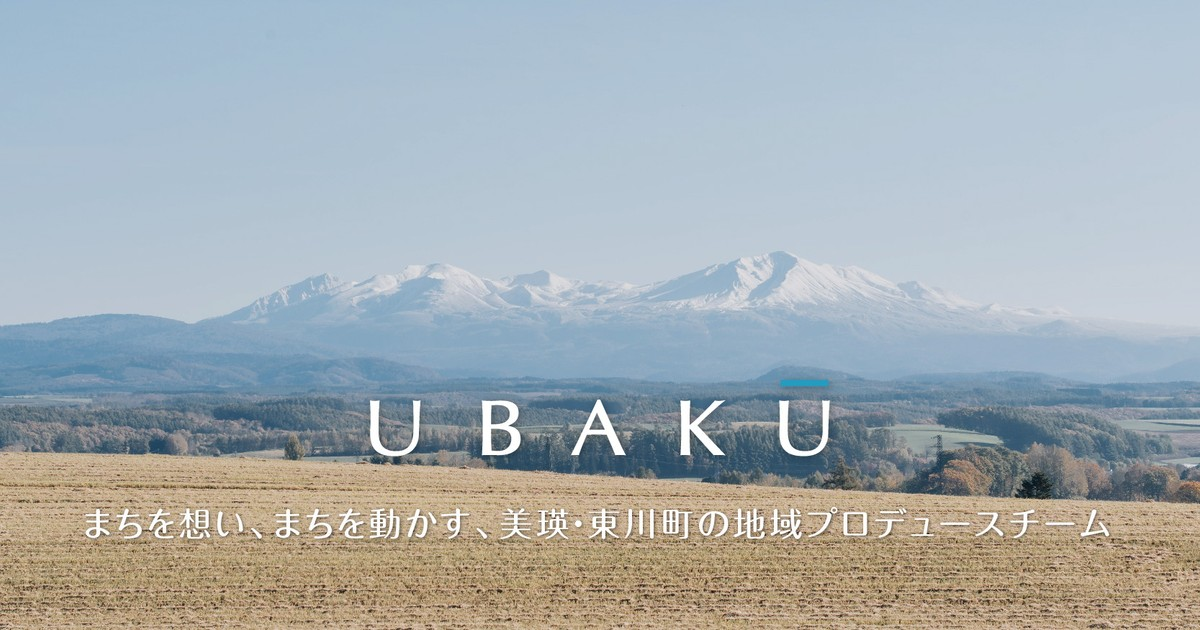
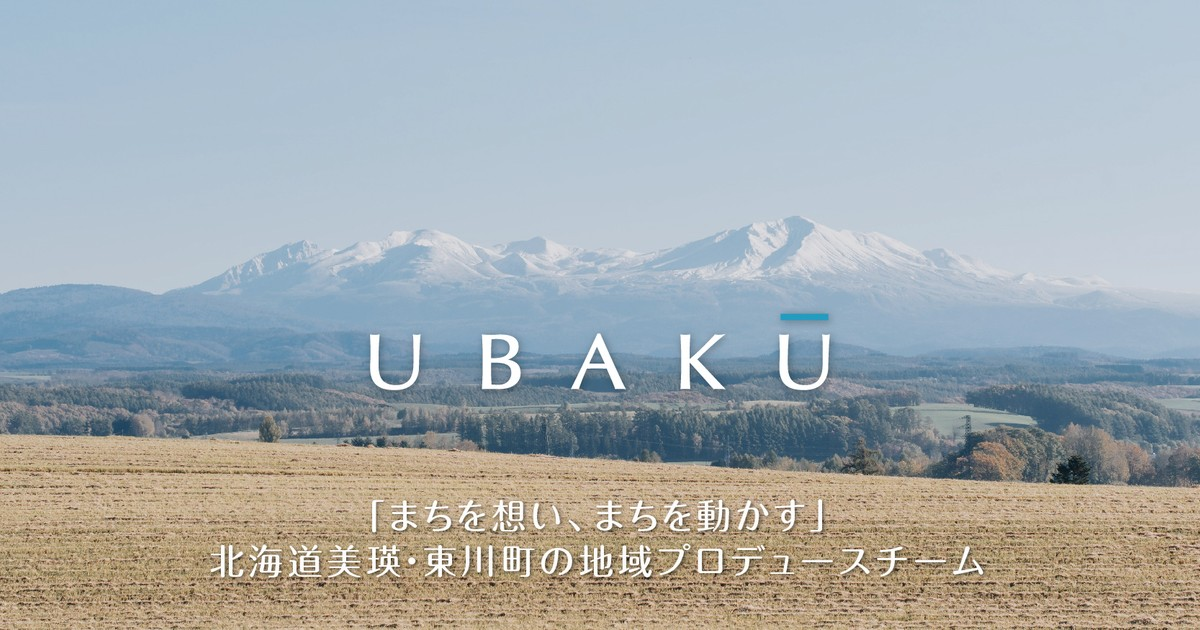
名乗りの美瑛から「町」を外す・OGP画像を新しい名乗りのものに差し替え

diff --git a/index.html b/index.html
@@ -13,14 +13,14 @@
 <script>/* オープニングを出すかどうかを、表示の前に決める（ページを開くたび毎回。?nointro のときと「動きを減らす」設定の人には出さない） */try{if(location.search.indexOf("nointro")<0&&!matchMedia("(prefers-reduced-motion: reduce)").matches){document.documentElement.classList.add("is-opening")}}catch(e){}</script>
 <meta name="viewport" content="width=device-width, initial-scale=1">
 <title>UBAKU｜北海道美瑛・東川町の地域プロデュースチーム</title>
-<meta name="description" content="「まちを想い、まちを動かす」北海道美瑛町・東川町の地域プロデュースチーム、UBAKU。一棟貸しの宿「UBAKU Villa 宇莫別荘」の運営、改修のデザイン監修とブランディング、宿と不動産のコンサルティング、地域メディア、移住・二拠点のご相談まで。">
+<meta name="description" content="「まちを想い、まちを動かす」北海道美瑛・東川町の地域プロデュースチーム、UBAKU。一棟貸しの宿「UBAKU Villa 宇莫別荘」の運営、改修のデザイン監修とブランディング、宿と不動産のコンサルティング、地域メディア、移住・二拠点のご相談まで。">
 <link rel="canonical" href="https://ubaku.jp/">
 
 <!-- SNSでシェアされたときの表示（ogp.jpg は 1200×630 で用意する） -->
 <meta property="og:type" content="website">
 <meta property="og:site_name" content="UBAKU">
 <meta property="og:title" content="UBAKU｜北海道美瑛・東川町の地域プロデュースチーム">
-<meta property="og:description" content="「まちを想い、まちを動かす」北海道美瑛町・東川町の地域プロデュースチーム、UBAKU。一棟貸しの宿「UBAKU Villa 宇莫別荘」の運営、改修のデザイン監修とブランディング、宿と不動産のコンサルティング、地域メディア、移住・二拠点のご相談まで。">
+<meta property="og:description" content="「まちを想い、まちを動かす」北海道美瑛・東川町の地域プロデュースチーム、UBAKU。一棟貸しの宿「UBAKU Villa 宇莫別荘」の運営、改修のデザイン監修とブランディング、宿と不動産のコンサルティング、地域メディア、移住・二拠点のご相談まで。">
 <meta property="og:url" content="https://ubaku.jp/">
 <meta property="og:image" content="https://ubaku.jp/ogp.jpg">
 <meta property="og:image:width" content="1200">
@@ -39,8 +39,8 @@
 <link rel="stylesheet" href="https://fonts.googleapis.com/css2?family=Noto+Sans+JP:wght@300;400;500&family=Noto+Serif+JP:wght@400&family=Cormorant+Garamond:ital,wght@0,500;0,600;1,400;1,500&family=Jost:ital,wght@0,200;0,300;0,400;1,300&family=EB+Garamond:wght@500&family=Murecho:wght@400&display=swap">
 
 <!-- デザイン（色・フォント・余白はすべてこのファイルで管理） -->
-<link rel="stylesheet" href="assets/css/style.css?v=202610272104">
-<link rel="stylesheet" href="assets/css/letter.css?v=202610272104">   <!-- UBAKU Letter（メルマガ）の購読：右下の札・窓・Journal のあとの購読欄 -->
+<link rel="stylesheet" href="assets/css/style.css?v=202610272126">
+<link rel="stylesheet" href="assets/css/letter.css?v=202610272126">   <!-- UBAKU Letter（メルマガ）の購読：右下の札・窓・Journal のあとの購読欄 -->
 
 <!-- Googleに会社情報を伝えるデータ（構造化データ）
      ロゴ画像と note のURLが決まったら "logo" と sameAs に追加する -->
@@ -51,7 +51,7 @@
   "name": "UBAKU",
   "url": "https://ubaku.jp/",
   "logo": "https://ubaku.jp/assets/img/icon-512.png",
-  "description": "「まちを想い、まちを動かす」北海道美瑛町・東川町の地域プロデュースチーム。美瑛と東川を拠点に、大雪山をとりまくまちで活動。",
+  "description": "「まちを想い、まちを動かす」北海道美瑛・東川町の地域プロデュースチーム。美瑛と東川を拠点に、大雪山をとりまくまちで活動。",
   "address": {
     "@type": "PostalAddress",
     "addressCountry": "JP",
@@ -132,7 +132,7 @@
     <div class="hero-copy intro" style="--d:.5s">
       <!-- h1はこの1つだけ（文言は固定） -->
       <h1>大雪山のふもとで、<br class="sp-br"><em class="hl">知る・泊まる・過ごす・住む。</em></h1>
-      <p><span class="phrase">「まちを想い、まちを動かす」</span><span class="phrase"><span class="phrase">北海道美瑛町・東川町の</span><span class="phrase">地域プロデュースチーム</span></span></p>
+      <p><span class="phrase">「まちを想い、まちを動かす」</span><span class="phrase"><span class="phrase">北海道美瑛・東川町の</span><span class="phrase">地域プロデュースチーム</span></span></p>
     </div>
   </div>
 
@@ -438,7 +438,7 @@
     <footer>
       <div>
         <span class="footer-logo wordmark" role="img" aria-label="UBAKU"></span>
-        <span><span class="phrase">「まちを想い、まちを動かす」</span><span class="phrase"><span class="phrase">北海道美瑛町・東川町の</span><span class="phrase">地域プロデュースチーム</span></span></span><br>
+        <span><span class="phrase">「まちを想い、まちを動かす」</span><span class="phrase"><span class="phrase">北海道美瑛・東川町の</span><span class="phrase">地域プロデュースチーム</span></span></span><br>
         <span>〒071-0212 北海道上川郡美瑛町旭町4丁目10-8-103</span>
       </div>
       <div class="footer-right">
@@ -453,9 +453,9 @@
 </section>
 
 <script src="https://web3forms.com/client/script.js" async defer></script>
-<script src="assets/js/notes.js?v=202610272104"></script>
-<script src="assets/js/main.js?v=202610272104"></script>
-<script src="assets/js/letter.js?v=202610272104"></script>
+<script src="assets/js/notes.js?v=202610272126"></script>
+<script src="assets/js/main.js?v=202610272126"></script>
+<script src="assets/js/letter.js?v=202610272126"></script>
 
 <!-- ページの一番上へ戻るボタン（矢印だけ。スクロールすると右下の UBAKU Letter の札の上に出る。2026-10-25） -->
 <a class="to-top" href="#" aria-label="ページの一番上へ"><svg viewBox="0 0 24 24" aria-hidden="true"><path d="M12 19V5M5.5 11.5 12 5l6.5 6.5"/></svg></a>

diff --git a/consulting/index.html b/consulting/index.html
@@ -36,9 +36,9 @@
 <link rel="stylesheet" href="https://fonts.googleapis.com/css2?family=Noto+Sans+JP:wght@300;400;500&family=Noto+Serif+JP:wght@400&family=Cormorant+Garamond:ital,wght@0,500;0,600;1,400;1,500&family=Jost:wght@200;300;400&family=EB+Garamond:wght@500&family=Murecho:wght@400&display=swap">
 
 <!-- デザイン：トップページと共通の style.css ＋ 下層ページ用の sub.css ＋ UBAKU Letter の札 -->
-<link rel="stylesheet" href="../assets/css/style.css?v=202610272104">
-<link rel="stylesheet" href="../assets/css/sub.css?v=202610272104">
-<link rel="stylesheet" href="../assets/css/letter.css?v=202610272104">
+<link rel="stylesheet" href="../assets/css/style.css?v=202610272126">
+<link rel="stylesheet" href="../assets/css/sub.css?v=202610272126">
+<link rel="stylesheet" href="../assets/css/letter.css?v=202610272126">
 
 <!-- Googleにページの内容を伝えるデータ（このページで受けている仕事） -->
 <script type="application/ld+json">
@@ -83,7 +83,7 @@
 <header class="hero wrap">
   <nav class="nav intro" style="--d:0s" aria-label="メインメニュー">
     <!-- 左上は UBAKŪ のロゴ（Ū の横線はこのページの色）と名乗り。ロゴを押すとトップページへ（同じタブ。2026-10-25） -->
-    <div class="nav-brand"><a class="nav-logo wordmark" href="../" aria-label="UBAKU トップページへ"></a><span class="nav-tagline"><span class="phrase">「まちを想い、まちを動かす」</span><span class="phrase"><span class="phrase">北海道美瑛町・東川町の</span><span class="phrase">地域プロデュースチーム</span></span></span></div>
+    <div class="nav-brand"><a class="nav-logo wordmark" href="../" aria-label="UBAKU トップページへ"></a><span class="nav-tagline"><span class="phrase">「まちを想い、まちを動かす」</span><span class="phrase"><span class="phrase">北海道美瑛・東川町の</span><span class="phrase">地域プロデュースチーム</span></span></span></div>
     <ul>
       <li><a href="#approach">Concept</a></li>
       <li><a href="#services">Services</a></li>
@@ -399,7 +399,7 @@
     <footer>
       <div>
         <a class="footer-logo wordmark" href="../" aria-label="UBAKU トップページへ"></a>
-        <span><span class="phrase">「まちを想い、まちを動かす」</span><span class="phrase"><span class="phrase">北海道美瑛町・東川町の</span><span class="phrase">地域プロデュースチーム</span></span></span><br>
+        <span><span class="phrase">「まちを想い、まちを動かす」</span><span class="phrase"><span class="phrase">北海道美瑛・東川町の</span><span class="phrase">地域プロデュースチーム</span></span></span><br>
         <span>〒071-0212 北海道上川郡美瑛町旭町4丁目10-8-103</span>
       </div>
       <div class="footer-right">
@@ -414,9 +414,9 @@
 </section>
 
 <script src="https://web3forms.com/client/script.js" async defer></script>
-<script src="../assets/js/main.js?v=202610272104"></script>
+<script src="../assets/js/main.js?v=202610272126"></script>
 <!-- UBAKU Letter：右下の札だけ（data-band="off" でページの中の購読欄は入れない） -->
-<script src="../assets/js/letter.js?v=202610272104" data-privacy="../privacy/" data-band="off"></script>
+<script src="../assets/js/letter.js?v=202610272126" data-privacy="../privacy/" data-band="off"></script>
 
 <!-- ページの一番上へ戻るボタン（矢印だけ。スクロールすると右下の UBAKU Letter の札の上に出る。2026-10-25） -->
 <a class="to-top" href="#" aria-label="ページの一番上へ"><svg viewBox="0 0 24 24" aria-hidden="true"><path d="M12 19V5M5.5 11.5 12 5l6.5 6.5"/></svg></a>

diff --git a/design/index.html b/design/index.html
@@ -36,9 +36,9 @@
 <link rel="stylesheet" href="https://fonts.googleapis.com/css2?family=Noto+Sans+JP:wght@300;400;500&family=Noto+Serif+JP:wght@400&family=Cormorant+Garamond:ital,wght@0,500;0,600;1,400;1,500&family=Jost:wght@200;300;400&family=EB+Garamond:wght@500&family=Murecho:wght@400&display=swap">
 
 <!-- デザイン：トップページと共通の style.css ＋ 下層ページ用の sub.css ＋ UBAKU Letter の札 -->
-<link rel="stylesheet" href="../assets/css/style.css?v=202610272104">
-<link rel="stylesheet" href="../assets/css/sub.css?v=202610272104">
-<link rel="stylesheet" href="../assets/css/letter.css?v=202610272104">
+<link rel="stylesheet" href="../assets/css/style.css?v=202610272126">
+<link rel="stylesheet" href="../assets/css/sub.css?v=202610272126">
+<link rel="stylesheet" href="../assets/css/letter.css?v=202610272126">
 
 <!-- Googleにページの内容を伝えるデータ（このページで受けている仕事） -->
 <script type="application/ld+json">
@@ -82,7 +82,7 @@
 <header class="hero wrap">
   <nav class="nav intro" style="--d:0s" aria-label="メインメニュー">
     <!-- 左上は UBAKŪ のロゴ（Ū の横線はこのページの色）と名乗り。ロゴを押すとトップページへ（同じタブ。2026-10-25） -->
-    <div class="nav-brand"><a class="nav-logo wordmark" href="../" aria-label="UBAKU トップページへ"></a><span class="nav-tagline"><span class="phrase">「まちを想い、まちを動かす」</span><span class="phrase"><span class="phrase">北海道美瑛町・東川町の</span><span class="phrase">地域プロデュースチーム</span></span></span></div>
+    <div class="nav-brand"><a class="nav-logo wordmark" href="../" aria-label="UBAKU トップページへ"></a><span class="nav-tagline"><span class="phrase">「まちを想い、まちを動かす」</span><span class="phrase"><span class="phrase">北海道美瑛・東川町の</span><span class="phrase">地域プロデュースチーム</span></span></span></div>
     <ul>
       <li><a href="#approach">Concept</a></li>
       <li><a href="#services">Services</a></li>
@@ -532,7 +532,7 @@
     <footer>
       <div>
         <a class="footer-logo wordmark" href="../" aria-label="UBAKU トップページへ"></a>
-        <span><span class="phrase">「まちを想い、まちを動かす」</span><span class="phrase"><span class="phrase">北海道美瑛町・東川町の</span><span class="phrase">地域プロデュースチーム</span></span></span><br>
+        <span><span class="phrase">「まちを想い、まちを動かす」</span><span class="phrase"><span class="phrase">北海道美瑛・東川町の</span><span class="phrase">地域プロデュースチーム</span></span></span><br>
         <span>〒071-0212 北海道上川郡美瑛町旭町4丁目10-8-103</span>
       </div>
       <div class="footer-right">
@@ -547,9 +547,9 @@
 </section>
 
 <script src="https://web3forms.com/client/script.js" async defer></script>
-<script src="../assets/js/main.js?v=202610272104"></script>
+<script src="../assets/js/main.js?v=202610272126"></script>
 <!-- UBAKU Letter：右下の札だけ（data-band="off" でページの中の購読欄は入れない） -->
-<script src="../assets/js/letter.js?v=202610272104" data-privacy="../privacy/" data-band="off"></script>
+<script src="../assets/js/letter.js?v=202610272126" data-privacy="../privacy/" data-band="off"></script>
 
 <!-- ページの一番上へ戻るボタン（矢印だけ。スクロールすると右下の UBAKU Letter の札の上に出る。2026-10-25） -->
 <a class="to-top" href="#" aria-label="ページの一番上へ"><svg viewBox="0 0 24 24" aria-hidden="true"><path d="M12 19V5M5.5 11.5 12 5l6.5 6.5"/></svg></a>

diff --git a/privacy/index.html b/privacy/index.html
@@ -36,8 +36,8 @@
 <link rel="stylesheet" href="https://fonts.googleapis.com/css2?family=Noto+Sans+JP:wght@300;400;500&family=Noto+Serif+JP:wght@400&family=Cormorant+Garamond:ital,wght@0,500;0,600;1,400;1,500&family=Jost:wght@200;300;400&family=EB+Garamond:wght@500&family=Murecho:wght@400&display=swap">
 
 <!-- デザイン：トップページと共通の style.css ＋ 下層ページ用の sub.css -->
-<link rel="stylesheet" href="../assets/css/style.css?v=202610272104">
-<link rel="stylesheet" href="../assets/css/sub.css?v=202610272104">
+<link rel="stylesheet" href="../assets/css/style.css?v=202610272126">
+<link rel="stylesheet" href="../assets/css/sub.css?v=202610272126">
 </head>
 <body class="page-privacy">
 
@@ -158,7 +158,7 @@
     <footer>
       <div>
         <a class="footer-logo wordmark" href="../" aria-label="UBAKU トップページへ"></a>
-        <span><span class="phrase">「まちを想い、まちを動かす」</span><span class="phrase"><span class="phrase">北海道美瑛町・東川町の</span><span class="phrase">地域プロデュースチーム</span></span></span><br>
+        <span><span class="phrase">「まちを想い、まちを動かす」</span><span class="phrase"><span class="phrase">北海道美瑛・東川町の</span><span class="phrase">地域プロデュースチーム</span></span></span><br>
         <span>〒071-0212 北海道上川郡美瑛町旭町4丁目10-8-103</span>
       </div>
       <div class="footer-right">
@@ -172,7 +172,7 @@
   </div>
 </section>
 
-<script src="../assets/js/main.js?v=202610272104"></script>
+<script src="../assets/js/main.js?v=202610272126"></script>
 
 <!-- ページの一番上へ戻るボタン（矢印だけ。スクロールすると右下の UBAKU Letter の札の上に出る。2026-10-25） -->
 <a class="to-top" href="#" aria-label="ページの一番上へ"><svg viewBox="0 0 24 24" aria-hidden="true"><path d="M12 19V5M5.5 11.5 12 5l6.5 6.5"/></svg></a>

diff --git a/assets/css/style.css b/assets/css/style.css
@@ -154,7 +154,7 @@ p{margin:0}
 .fold-wrap{display:contents}   /* 中身を包むだけの箱。並び方や余白は今までどおり */
 .fold-btn{display:none}
 .sp-br{display:none}   /* スマホだけで使う改行（パソコンでは改行しない） */
-.phrase{display:inline-block}   /* 言葉のまとまり。改行はまとまりの切れ目でだけ起きる（入れ子にすると、外側の切れ目から先に改行される）（名乗り「まちを想い、まちを動かす」北海道美瑛町・東川町の地域プロデュースチーム。2026-10-27） */
+.phrase{display:inline-block}   /* 言葉のまとまり。改行はまとまりの切れ目でだけ起きる（入れ子にすると、外側の切れ目から先に改行される）（名乗り「まちを想い、まちを動かす」北海道美瑛・東川町の地域プロデュースチーム。2026-10-27） */
 .more{align-self:flex-start;display:inline-block;font-size:13px;letter-spacing:.1em;border-bottom:1px solid var(--rule-long);padding:12px 0 6px}
 
 /* ---------- アニメーション③：リンクの下線が、マウスを乗せると左から伸びる ----------
